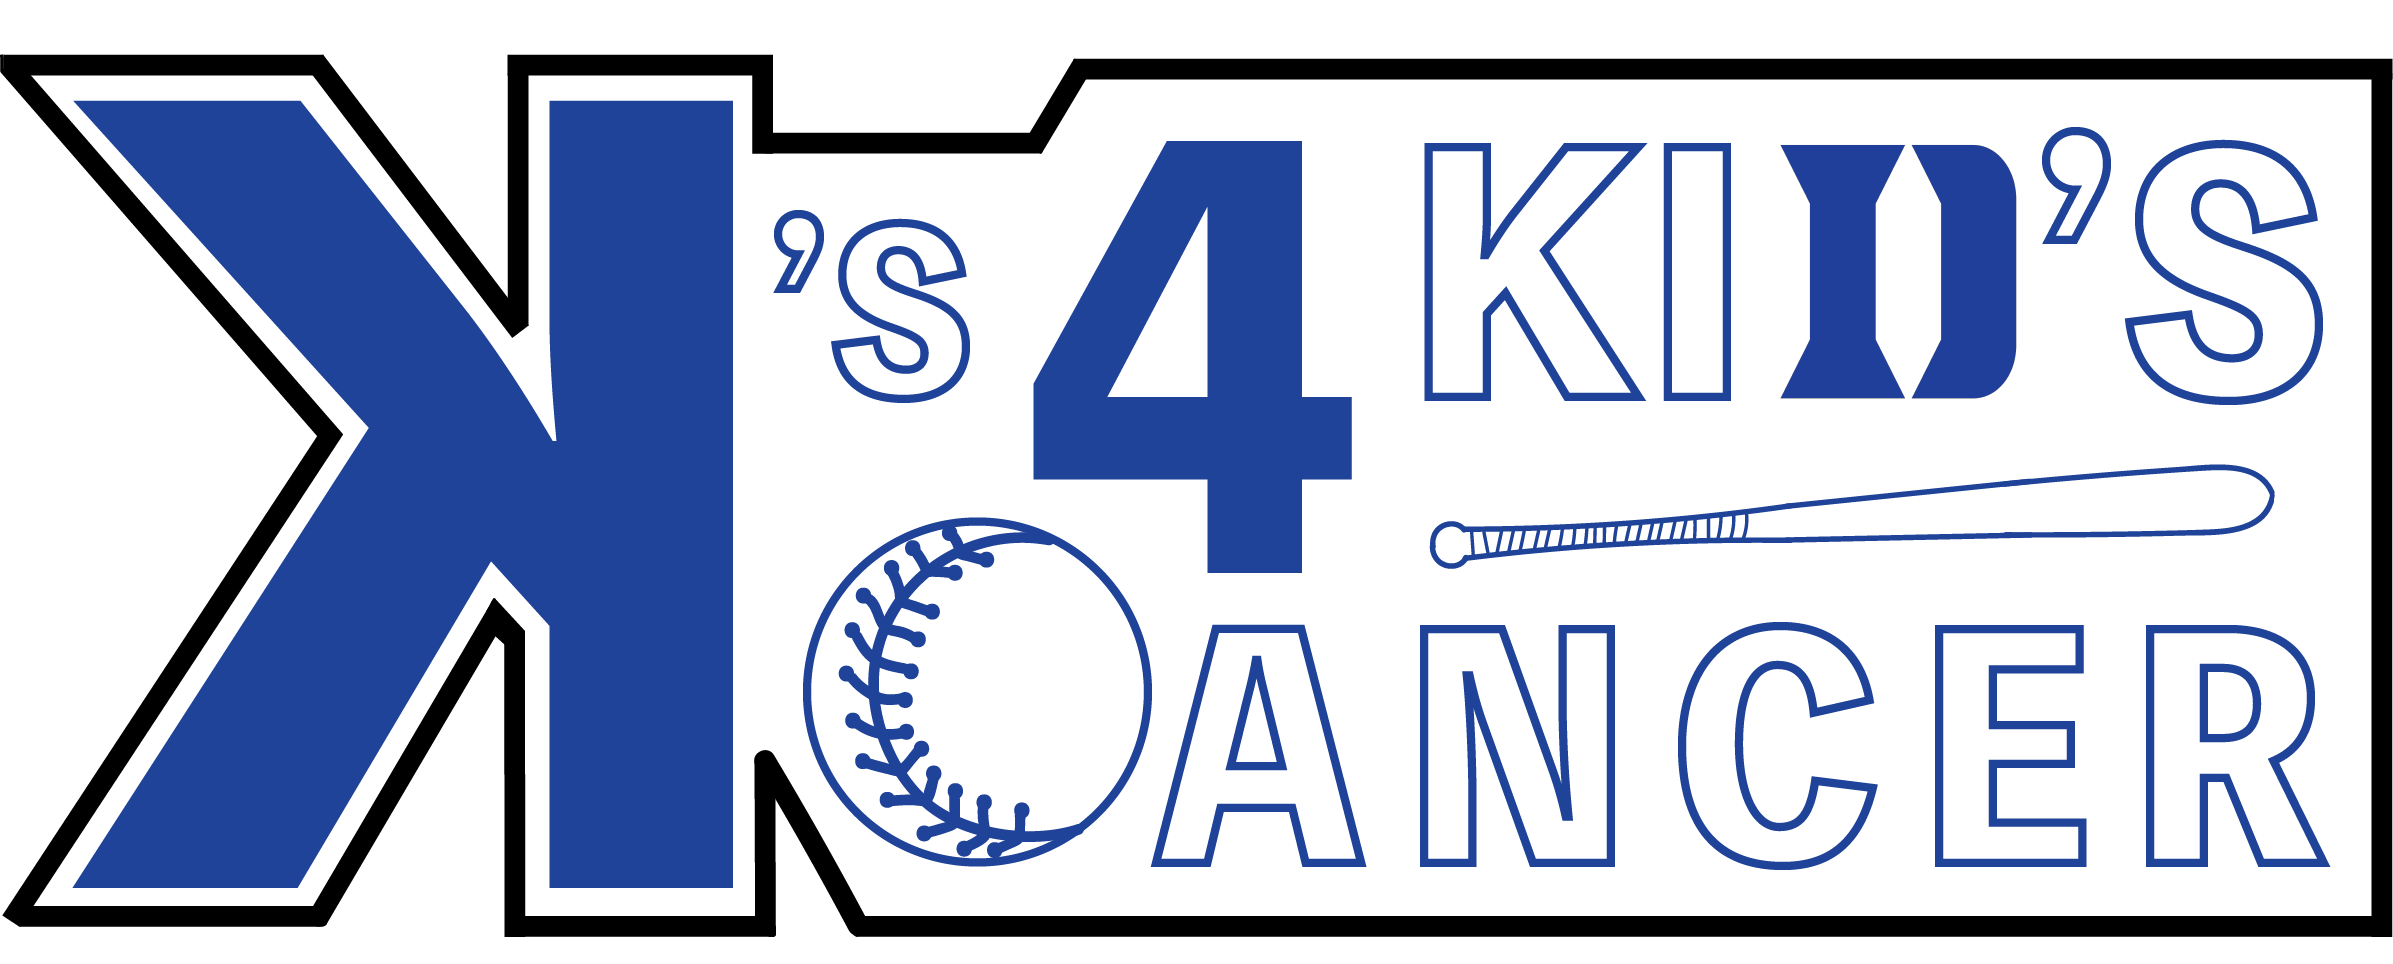
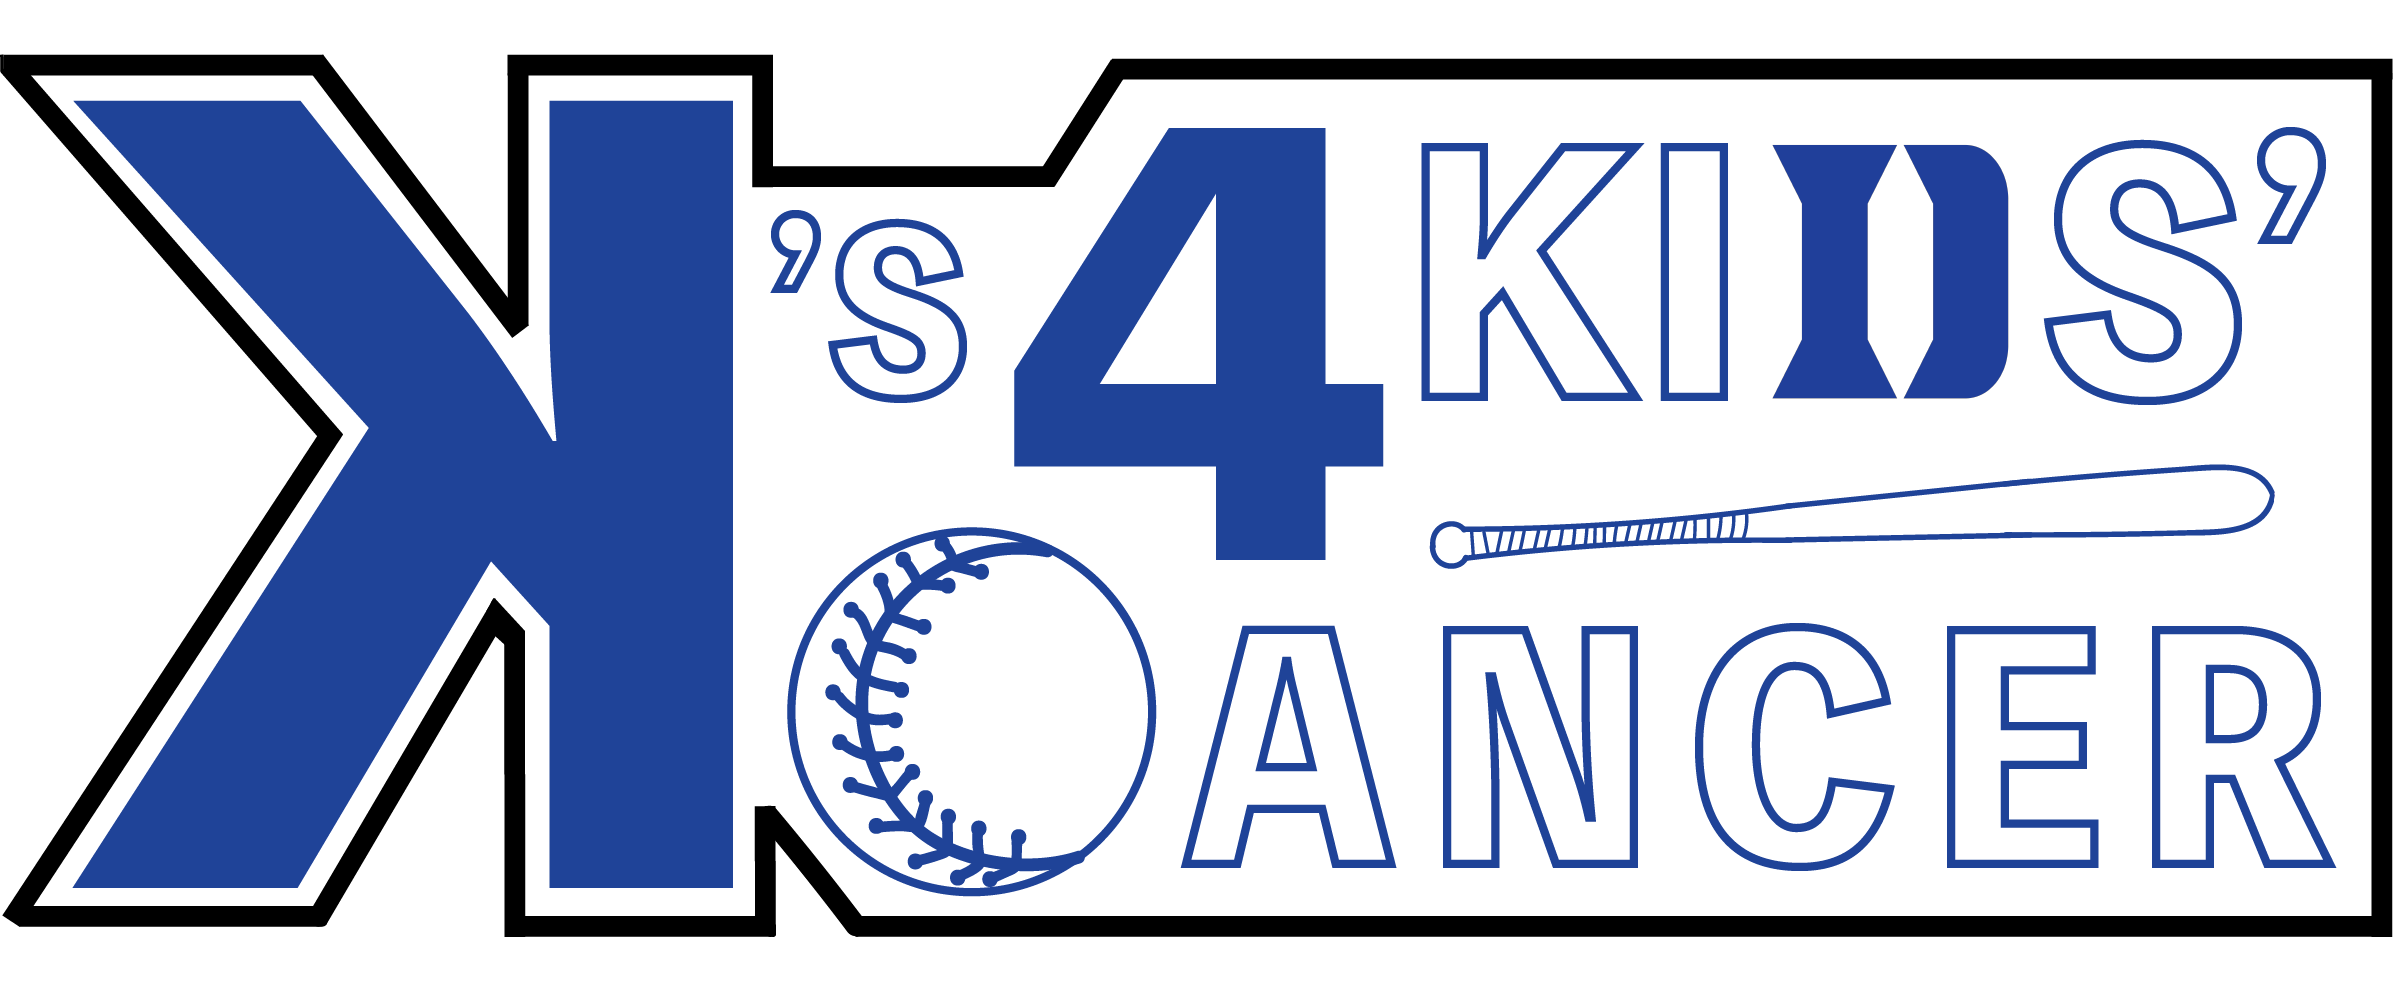
upgrade domain

diff --git a/src/Components/Information.jsx b/src/Components/Information.jsx
@@ -10,6 +10,7 @@ import softballlogo from './DukeSoftballLogo.jpg';
 // import Components
 import { DonorStepper } from './DonorStepper';
 import { Donors } from './Donors';
+import { DonationForm } from './DonationForm';
 
 class Information extends Component {
   render() {
@@ -18,10 +19,11 @@ class Information extends Component {
         <Paper elevation={3} rounded="true">
           <br />
           <Typography variant="h1" component="h3">
-            Strikeout Kids Cancer!
+            Strikeout Kids' Cancer!
           </Typography>
           <Typography variant="h5" component="h2">
-            Help us fundraise by pledging an amount for each strike out a Duke pitcher throws!
+            Help the Duke Baseball and Softball teams strikeout pediatric cancer by joining our team. <br />
+            Show your support by pledging funds for each strike out a Duke pitcher throws!
           </Typography>
           <br />
             <div align="center">
@@ -32,8 +34,9 @@ class Information extends Component {
             </div>
           <Paper>
             <Card>
+            <br />
             <Typography variant="display1" component="h3">
-            Help the Duke Baseball & Softball teams strikeout children’s cancer by joining our team.
+              Help the Duke Baseball and Softball teams <br /> strikeout pediatric cancer by joining our team.
             </Typography>
             <br />
             <img src= { softballlogo }
@@ -44,7 +47,7 @@ class Information extends Component {
               <Typography variant="h5" component="h3"> Total raised in the 2018-2019 season to date:
               </Typography>
               <br />
-              <Typography variant="h2"> $7,434.50 </Typography>
+              <Typography variant="h2"> $00.00 </Typography>
               <br/>
               <LinearProgress color="secondary" />
               <br />
@@ -58,20 +61,21 @@ class Information extends Component {
             <Card style={{ background: '' }}>
               <br />
               <Typography variant="h5" component="h3">
-                Make a pledge for every strikeout Duke Pitchers rack up this season.
+                Make a pledge for every strikeout Duke pitchers rack up this season.
                 <br />
                 All funds go directly
-                to support cancer research and patient care at Duke Children’s Hospital.
+                to support cancer research and patient care at Duke Children’s.
                 <br />
                 By filling out the form below, you can choose the level of your pledge or you can make a one-time donation.
                 <br />
-                Last season we threw 575 strikeouts in Baseball and 262 in Softball (95 in March).
+                Last season we threw 575 strikeouts in baseball and 262 in softball (95 in March).
                 <br />
-                We’re looking for more this year to help the kids.
+                We’re planning to make more this year to help the kids!
                 <br />
                 <br />
               </Typography>
               <DonorStepper />
+              <DonationForm />
               <Donors />
               <br />
             </Card>

diff --git a/src/App.js b/src/App.js
@@ -8,7 +8,6 @@ import { Card } from '@material-ui/core/';
 // import Components
 import { Information } from './Components/Information';
 import { AnimatedNumber } from './Components/AnimatedNumber';
-import { DonationForm } from './Components/DonationForm';
 import { Footer } from './Components/Footer';
 import { NavBar } from './Components/NavBar';
 
@@ -23,7 +22,6 @@ class App extends Component {
           height="400" />
         </Card>
         <Information />
-        <DonationForm />
         <Footer />
       </div>
     );

diff --git a/src/Components/Footer.jsx b/src/Components/Footer.jsx
@@ -11,7 +11,7 @@ class Footer extends Component {
         width="400"
         height="100"/>
         <br />
-        <Typography variant="inherit"> Created by Rikki Kendall (Web Design) <br /> Thea Dowrich (Pledge Donations), & Kelly Yang (Logo Designer) </Typography>
+        <Typography variant="inherit"> Created by Rikki Kendall (Web Design) <br /> Thea Dowrich (Pledge Donations), and Kelly Yang (Logo Designer) </Typography>
       </footer>
     );
   }

diff --git a/src/Components/Donors.jsx b/src/Components/Donors.jsx
@@ -34,6 +34,8 @@ class Donors extends Component {
           <Chip label="$0.50" />
           <Chip label="$1.00" />
           <Chip label="$1.50" />
+          <Chip label="$2.00" />
+          <Chip label="$2.50" />
         </div>
         <br />
         <Typography gutterBottom variant="subtitle1" color="textSecondary">
